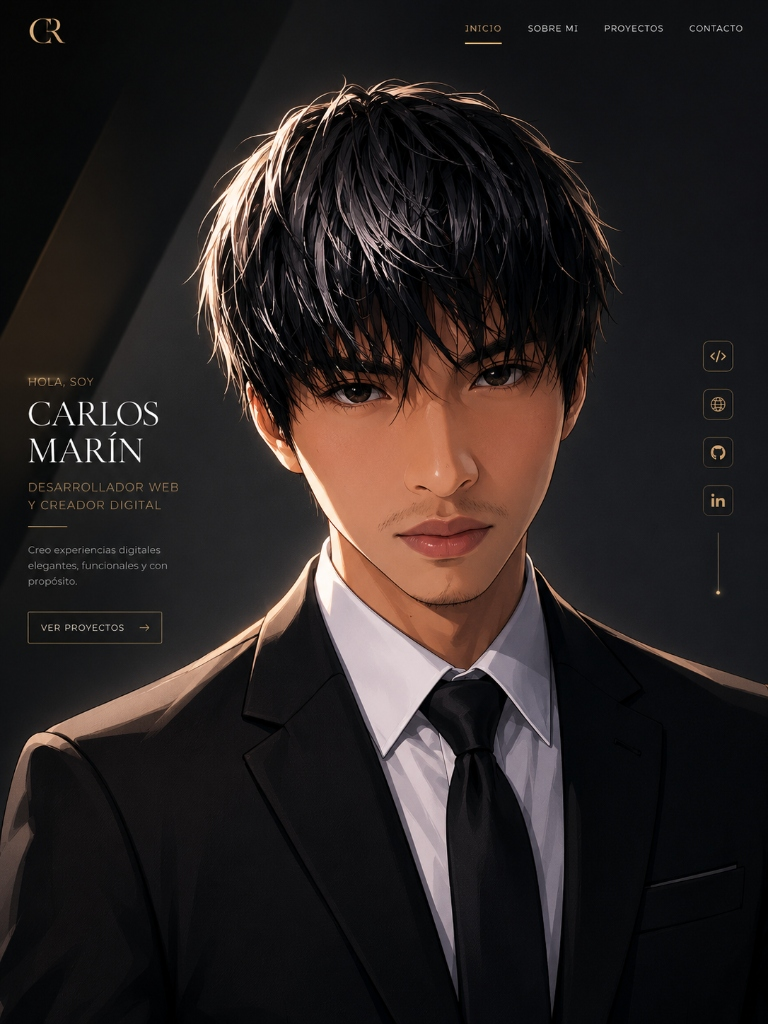
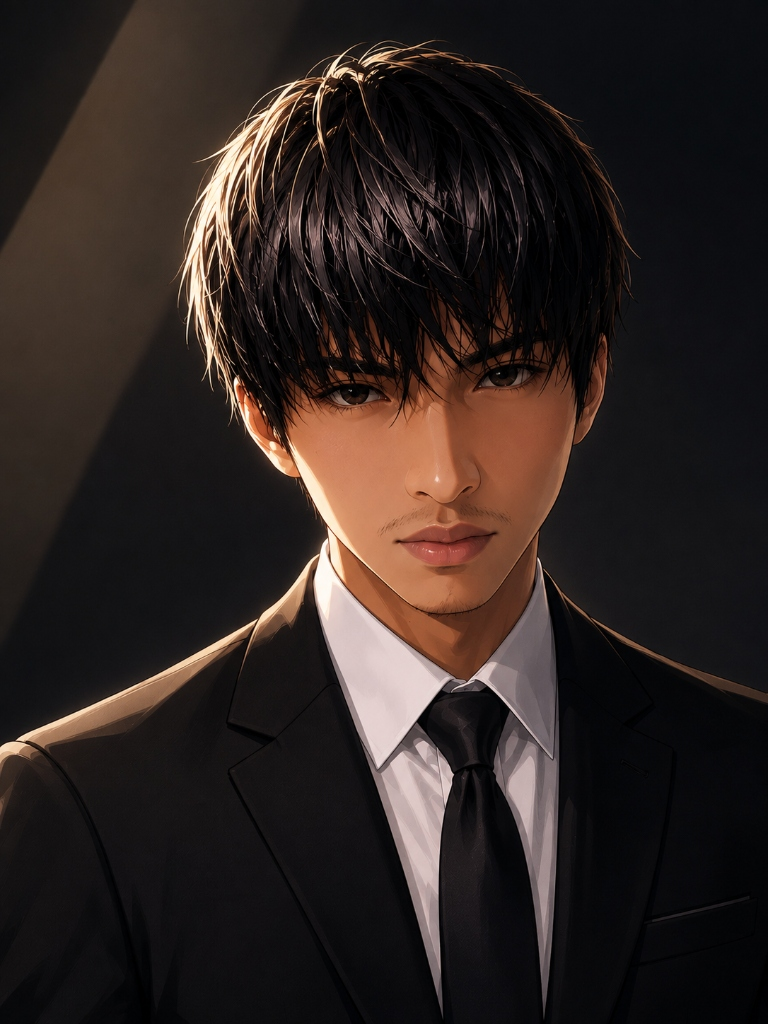
Update profile picture to clean version and reset Livacentro link

diff --git a/templates/creditos.html b/templates/creditos.html
@@ -202,8 +202,6 @@
             height: 100%;
             object-fit: cover;
             object-position: top center;
-            mask-image: linear-gradient(to right, transparent, black 15%);
-            -webkit-mask-image: linear-gradient(to right, transparent, black 15%);
         }
 
         /* --- Right Sidebar (Icons) --- */
@@ -373,7 +371,7 @@
 
     <div class="social-sidebar">
         <a href="https://wa.me/51936461400" target="_blank" title="WhatsApp"><i class="fab fa-whatsapp"></i></a>
-        <a href="https://www.livacentro.com" target="_blank" title="Livacentro"><i class="fas fa-globe"></i></a>
+        <a href="#" title="Website (Próximamente)"><i class="fas fa-globe"></i></a>
         <a href="#" title="GitHub"><i class="fab fa-github"></i></a>
         <a href="https://www.linkedin.com/in/carlos-raul-marin-alarcon-b79935415/" target="_blank" title="LinkedIn"><i class="fab fa-linkedin-in"></i></a>
     </div>
